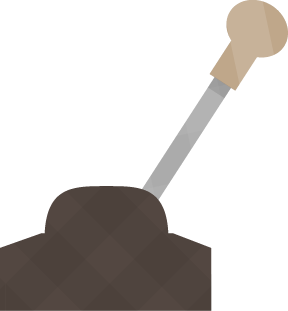
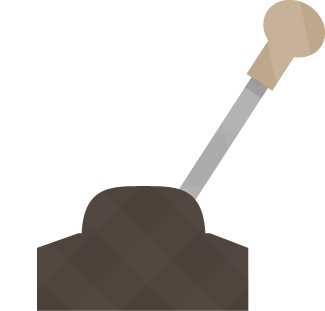
Major Update - Fixed placement of interactible block : Lever.entity.py

diff --git a/dpt/ressources/dpt/entities/Lever.entity.py b/dpt/ressources/dpt/entities/Lever.entity.py
@@ -32,9 +32,6 @@ class Lever(pygame.sprite.Sprite):
             if mousePos[0] >= self.x and mousePos[0] <= self.x + self.width and mousePos[1] >= self.y and mousePos[1] <= self.y + self.height:
                 from dpt.engine.gui.editor.tileEditor import TileEditor
                 if not TileEditor.in_editor:
-                    print(self.left)
-                    print(self.right)
-                    print(TileEditor.in_editor)
                     if self.left:
                         self.left = False
                         self.right = True
@@ -42,7 +39,7 @@ class Lever(pygame.sprite.Sprite):
                         self.image = RessourceLoader.get(texture)
                         self.image = pygame.transform.scale(self.image, (self.width, self.height))
                         self.rect = self.image.get_rect()
-                        self.rect.x = self.x + self.offset_x
+                        self.rect.x = self.x + self.offset_x + 11
                         self.rect.y = self.y + self.offset_y
                     elif self.right:
                         self.right = False
